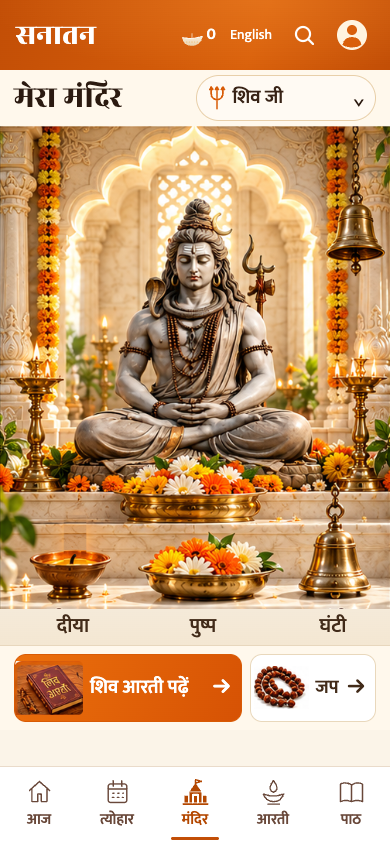
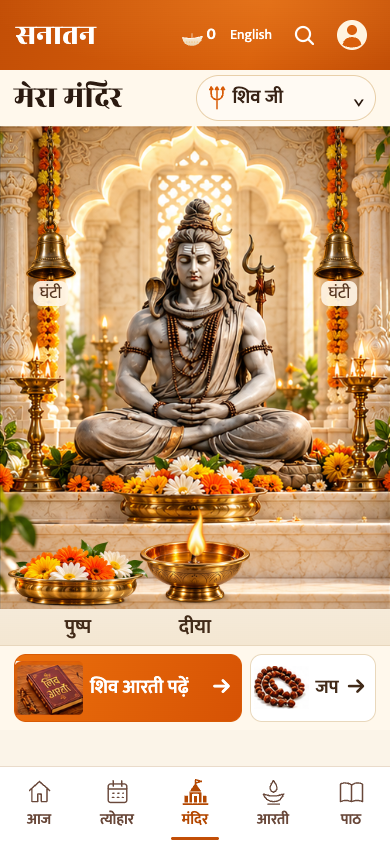
Refresh phone review for natural Mandir offerings

diff --git a/docs/redesign/mandir-offerings/README.md b/docs/redesign/mandir-offerings/README.md
@@ -23,6 +23,6 @@ Only bounded repairs from the generated full-scene edits are used. No generated 
 - Before: ../mandir-fidelity/final.png. After: lit.png / flowers-settled.png. interaction.gif records actual working-app frames, including lighting, flowers and both bells.
 - Browser checks cover gradual ignition, delayed corner lamps, centred diya, both bells, flower fall/settle, cumulative darshan counting once after a gap, saved state, original Shivling/Khatu pictures, 320/390 px enlarged Hindi/English, reduced motion and no app exceptions.
 - TypeScript, existing tests and production build are run for each affected review stage. Offline production checks cover the new art and offering actions after installation.
-- No existing storage key, prayer, festival/temple fact, hosting setting or deployment is changed. The complete offline installation is now approximately 49 MB; the existing main JavaScript bundle warning remains.
+- No existing storage key, prayer, festival/temple fact, hosting setting or deployment is changed. The complete offline installation is now approximately 50 MB; the existing main JavaScript bundle warning remains.
 
 These changes belong to the Today/Mandir review stage, inherited by the daily-opener and sharing stages. GitHub authentication remains required to publish the review PRs; no release is authorised.
